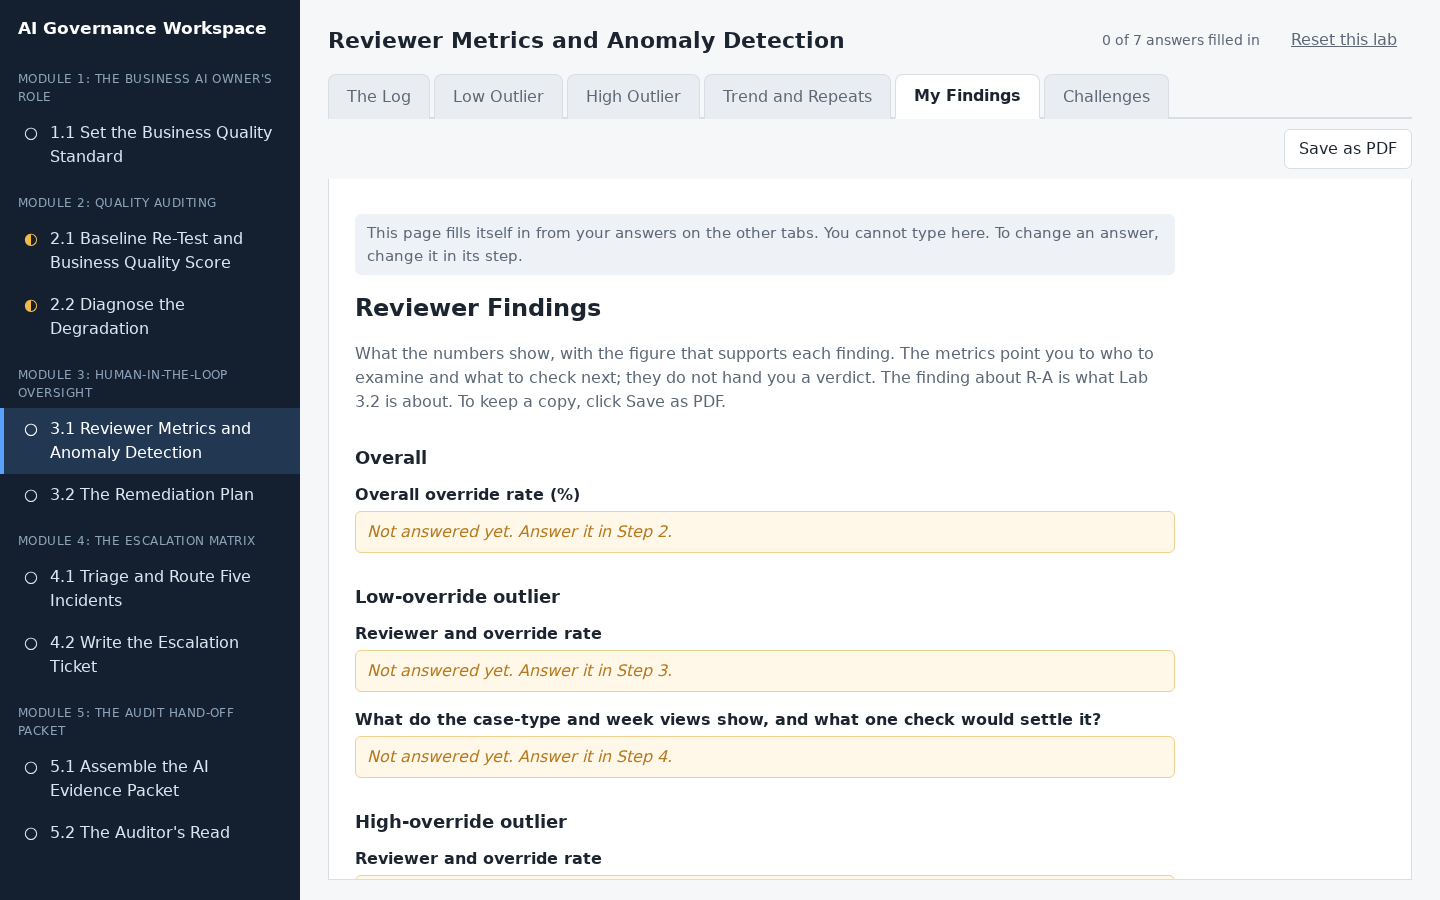
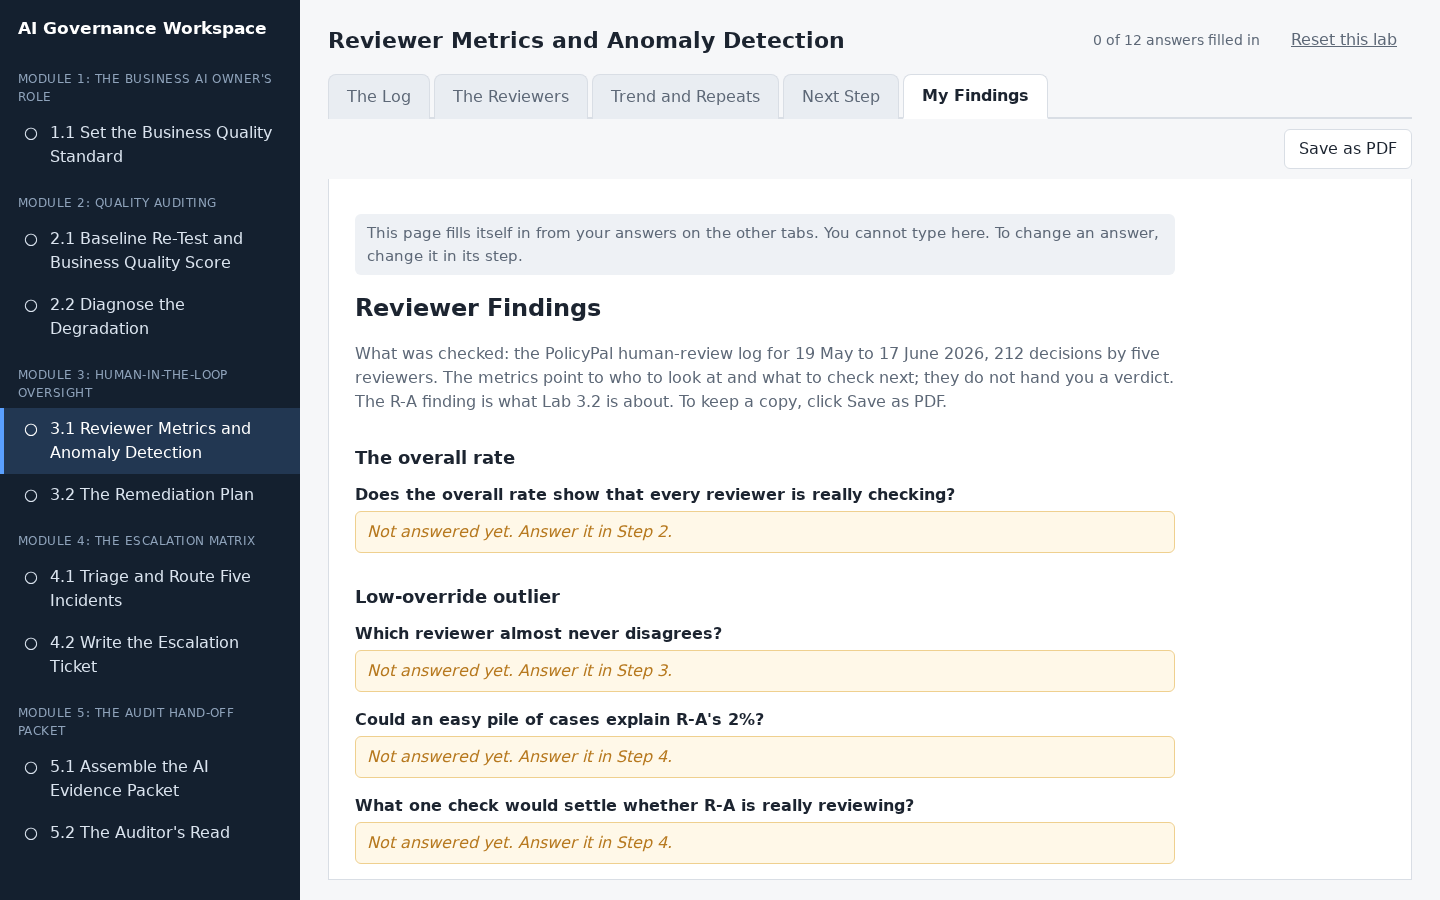
Review Lab 3.1 against the checklist
- Step 1 explains where the review log comes from, what PolicyPal's
  approve / reject / route-to-human proposals mean, and the goal, and
  checks the student can read a row
- No more copying rates from tables: the overall rate becomes "does an
  average prove every reviewer is checking?", and outliers are picked
  from a drop-down
- Easy-pile, reviewer-or-AI, trend and repeat-case judgements are
  drop-downs; the trend step shows the same quarter's quality review so
  "PolicyPal got worse" can be reasoned away
- New final step routes the R-A finding to the owner of the review
  process, setting up Lab 3.2
- Grouped tables honour fit: true; answers quote numbers visible on screen
- All field ids are new, so no answers from the old version carry over
- Guide and screenshots updated

diff --git a/static/app.js b/static/app.js
@@ -461,7 +461,7 @@ function renderTable(tab) {
       const k = rows.reduce((t, x) => t + Number(x.r[sum.column]), 0);
       total = ["All", String(rows.length), String(k), rows.length ? `${Math.round(100 * k / rows.length)}%` : "–"];
     }
-    return h("div", { class: "tablewrap" }, h("table", { class: "data" },
+    return h("div", { class: "tablewrap" + (tab.fit ? " fit" : "") }, h("table", { class: "data" + (tab.fit ? " fit" : "") },
       h("thead", {}, h("tr", { class: "heads" }, head.map(x => h("th", { style: "cursor:default" }, x)))),
       h("tbody", {}, body.map(r => h("tr", {}, r.map((x, j) => h("td", { class: j ? "num" : "" }, x)))),
         h("tr", { class: "total" }, total.map((x, j) => h("td", { class: j ? "num" : "" }, x))))));

diff --git a/tests/test_validate.py b/tests/test_validate.py
@@ -111,7 +111,7 @@ class ValidateContent(unittest.TestCase):
         self.assertCaught("'low' is already used", "unique")
 
     def test_duplicate_tab_title(self):
-        self.edit("lab-3.1/lab.yml", "title: High Outlier", "title: Low Outlier")
+        self.edit("lab-3.1/lab.yml", "title: Next Step", "title: The Log")
         self.assertCaught("same title")
 
     def test_select_field_without_options(self):
@@ -209,7 +209,7 @@ class ValidateContent(unittest.TestCase):
         self.assertCaught("view 'scorcard'", "did you mean 'scorecard'")
 
     def test_step_table_group_column_that_does_not_exist(self):
-        self.edit("lab-3.1/lab.yml", "group: reviewer, split: case_type}", "group: reviewr, split: case_type}")
+        self.edit("lab-3.1/lab.yml", "group: reviewer, split: case_type,", "group: reviewr, split: case_type,")
         self.assertCaught("group column 'reviewr'", "did you mean 'reviewer'")
 
     def test_echoed_answer_that_no_step_asks_for(self):

diff --git a/LAB_REFERENCES/lab-3.1-reviewer-metrics.md b/LAB_REFERENCES/lab-3.1-reviewer-metrics.md
@@ -2,16 +2,17 @@
 
 ## Lab Objective
 
-**Read human-oversight metrics from a reviewer decision log and flag the reviewers whose patterns warrant a closer look.**
+**Read human-oversight metrics from a reviewer decision log, flag the reviewers whose patterns warrant a closer look, test the innocent explanations before naming anyone, and route the finding to the right owner.**
 
-Human review is a control, and controls need monitoring. A reviewer who approves everything gives you the appearance of oversight with none of the substance. In this lab you take a 30-day log of human review decisions on PolicyPal, read the overall agreement and override rates, then cut those numbers by reviewer, by case type, and by week. The anomalies only become visible once the numbers are broken down, and that breakdown is the skill.
+Human review is a control, and controls need monitoring. A reviewer who approves everything gives you the appearance of oversight with none of the substance. In this lab you take last quarter's 30-day log of human review decisions on PolicyPal and see why the team's overall override rate proves little on its own. Then you break the numbers down by reviewer, by case type and by week. The anomalies only become visible once the numbers are broken down, and that breakdown is the skill.
 
 In this lab, you will:
-- Read the overall agreement and override rates
-- Break override rates down by reviewer, case type, and week
-- Flag a reviewer whose override rate is anomalously low and one whose rate is anomalously high, and test each read before naming it
-- Read a week-over-week override trend
-- Check seeded duplicate cases for reviewer consistency
+- Explain what the reviewer log records and why an overall override rate can hide problems
+- Flag a reviewer whose override rate is anomalously low, and rule out the "easy pile" explanation
+- Flag a reviewer whose rate is anomalously high, and decide whether it is the reviewer or the AI
+- Read a week-over-week override trend and check it against the AI's quality for the same period
+- Check seeded repeat cases for reviewer consistency
+- Route the most serious finding to the owner of the review process
 
 By the end of this lab you will be able to audit whether human oversight of an AI workflow is real.
 
@@ -19,10 +20,11 @@ By the end of this lab you will be able to audit whether human oversight of an A
 
 - **What you are doing:** Companies often say "a human checks the AI's work". You will look at a list of what five human checkers actually did, and spot any who may not be doing the job properly.
 - **Why it matters:** A human check only protects anyone if the human is really checking. Someone who clicks "approve" on everything makes it look safe when it is not.
-- **You do not have to:** download anything, open a spreadsheet, or do any maths. The workspace adds up the numbers when you ask, and everything you type saves by itself.
+- **You do not have to:** download anything, open a spreadsheet, or do any maths. The workspace adds up the numbers for you, and nearly every answer is a drop-down menu.
 - **If you feel lost:** in the workspace, every instruction is in a numbered orange box. Do the boxes in order, from the left-most tab to the right-most tab.
 
 **Words you will see in this lab**
+- **Flagged case:** an answer PolicyPal was not sure about, held back for a person to check.
 - **Reviewer:** a person who checks the AI's work.
 - **Override:** when a reviewer disagrees with the AI and does something different. Overriding is normal. A reviewer who never does it is suspicious.
 - **Override rate:** out of every 100 decisions, how many the reviewer changed. It is shown as a percentage.
@@ -52,27 +54,27 @@ end challenge section -->
 
 ### Tab 1: The Log (Steps 1 and 2)
 
-![The Log tab, showing Step 1 above the list of 212 reviewer decisions](images/lab-3.1/1-the-log.png)
+![The Log tab, showing Step 1 above the reviewer log](images/lab-3.1/1-the-log.png)
 
-You learn what one row of the reviewer log means, then read the overall override rate: how often the reviewers disagree with the AI.
+You learn what the reviewer log records and what an override is. Then you see why the team's overall override rate cannot prove, on its own, that every reviewer is really checking.
 
-### Tab 2: Low Outlier (Steps 3 and 4)
+### Tab 2: The Reviewers (Steps 3 to 5)
 
-![The Low Outlier tab, showing Step 3 above the override rate for each reviewer](images/lab-3.1/2-low-outlier.png)
+![The Reviewers tab, showing Step 3 above the override rate for each reviewer](images/lab-3.1/2-the-reviewers.png)
 
-You spot the reviewer who almost never disagrees with the AI, then check whether they simply had an easy pile of cases before you write it up.
+You spot the reviewer who almost never disagrees with PolicyPal and rule out the innocent explanation, that they just had easy cases. Then you spot the reviewer who disagrees the most, and work out whether it is the reviewer or PolicyPal. Every table opens already broken down the way its step needs.
 
-### Tab 3: High Outlier (Steps 5 and 6)
+### Tab 3: Trend and Repeats (Steps 6 and 7)
 
-![The High Outlier tab, showing Step 5 above the override rate for each reviewer](images/lab-3.1/3-high-outlier.png)
+![The Trend and Repeats tab, showing Step 6 above the override rate for each week](images/lab-3.1/3-trend-and-repeats.png)
 
-You spot the reviewer who disagrees the most, then check whether it is the reviewer or the AI that is different.
+You read how the override rate changed week by week and check PolicyPal's quality for the same period, to tell whether the AI or the reviewers changed. Then you check the secret repeat cases to see who decided the same case two different ways.
 
-### Tab 4: Trend and Repeats (Steps 7 and 8)
+### Tab 4: Next Step (Step 8)
 
-![The Trend and Repeats tab, showing Step 7 above the override rate for each week](images/lab-3.1/4-trend-and-repeats.png)
+![The Next Step tab, showing Step 8 above the student's earlier answers about R-A](images/lab-3.1/4-next-step.png)
 
-You read how the override rate changed week by week. Then you check the secret repeat cases, where the same case was given to the same reviewer twice, to see who decided a case two different ways.
+You decide who owns fixing the most serious finding. Lab 3.2 is where you write the plan.
 
 ### Tab 5: My Findings
 
@@ -94,4 +96,4 @@ end challenge section -->
 
 ## Conclusion
 
-In this lab you read agreement and override rates, cut them by reviewer and by week, flagged two reviewers whose rates warrant a closer look and one whose duplicate-case decisions were inconsistent, and read a rising override trend as a signal to cross-check output quality. The metrics point you to who to examine and what to check next; they do not hand you a verdict. This is how you check whether human oversight of an AI workflow is doing real work.
+In this lab you saw why a team's overall override rate proves little on its own, broke the numbers down by reviewer, case type and week, flagged one reviewer who almost never disagrees and one who disagrees far more than the rest, ruled out the innocent explanations before naming either, checked a rising trend against the AI's own quality, and routed the most serious finding to the owner of the review process. The metrics point you to who to examine and what to check next; they do not hand you a verdict. This is how you check whether human oversight of an AI workflow is doing real work.
